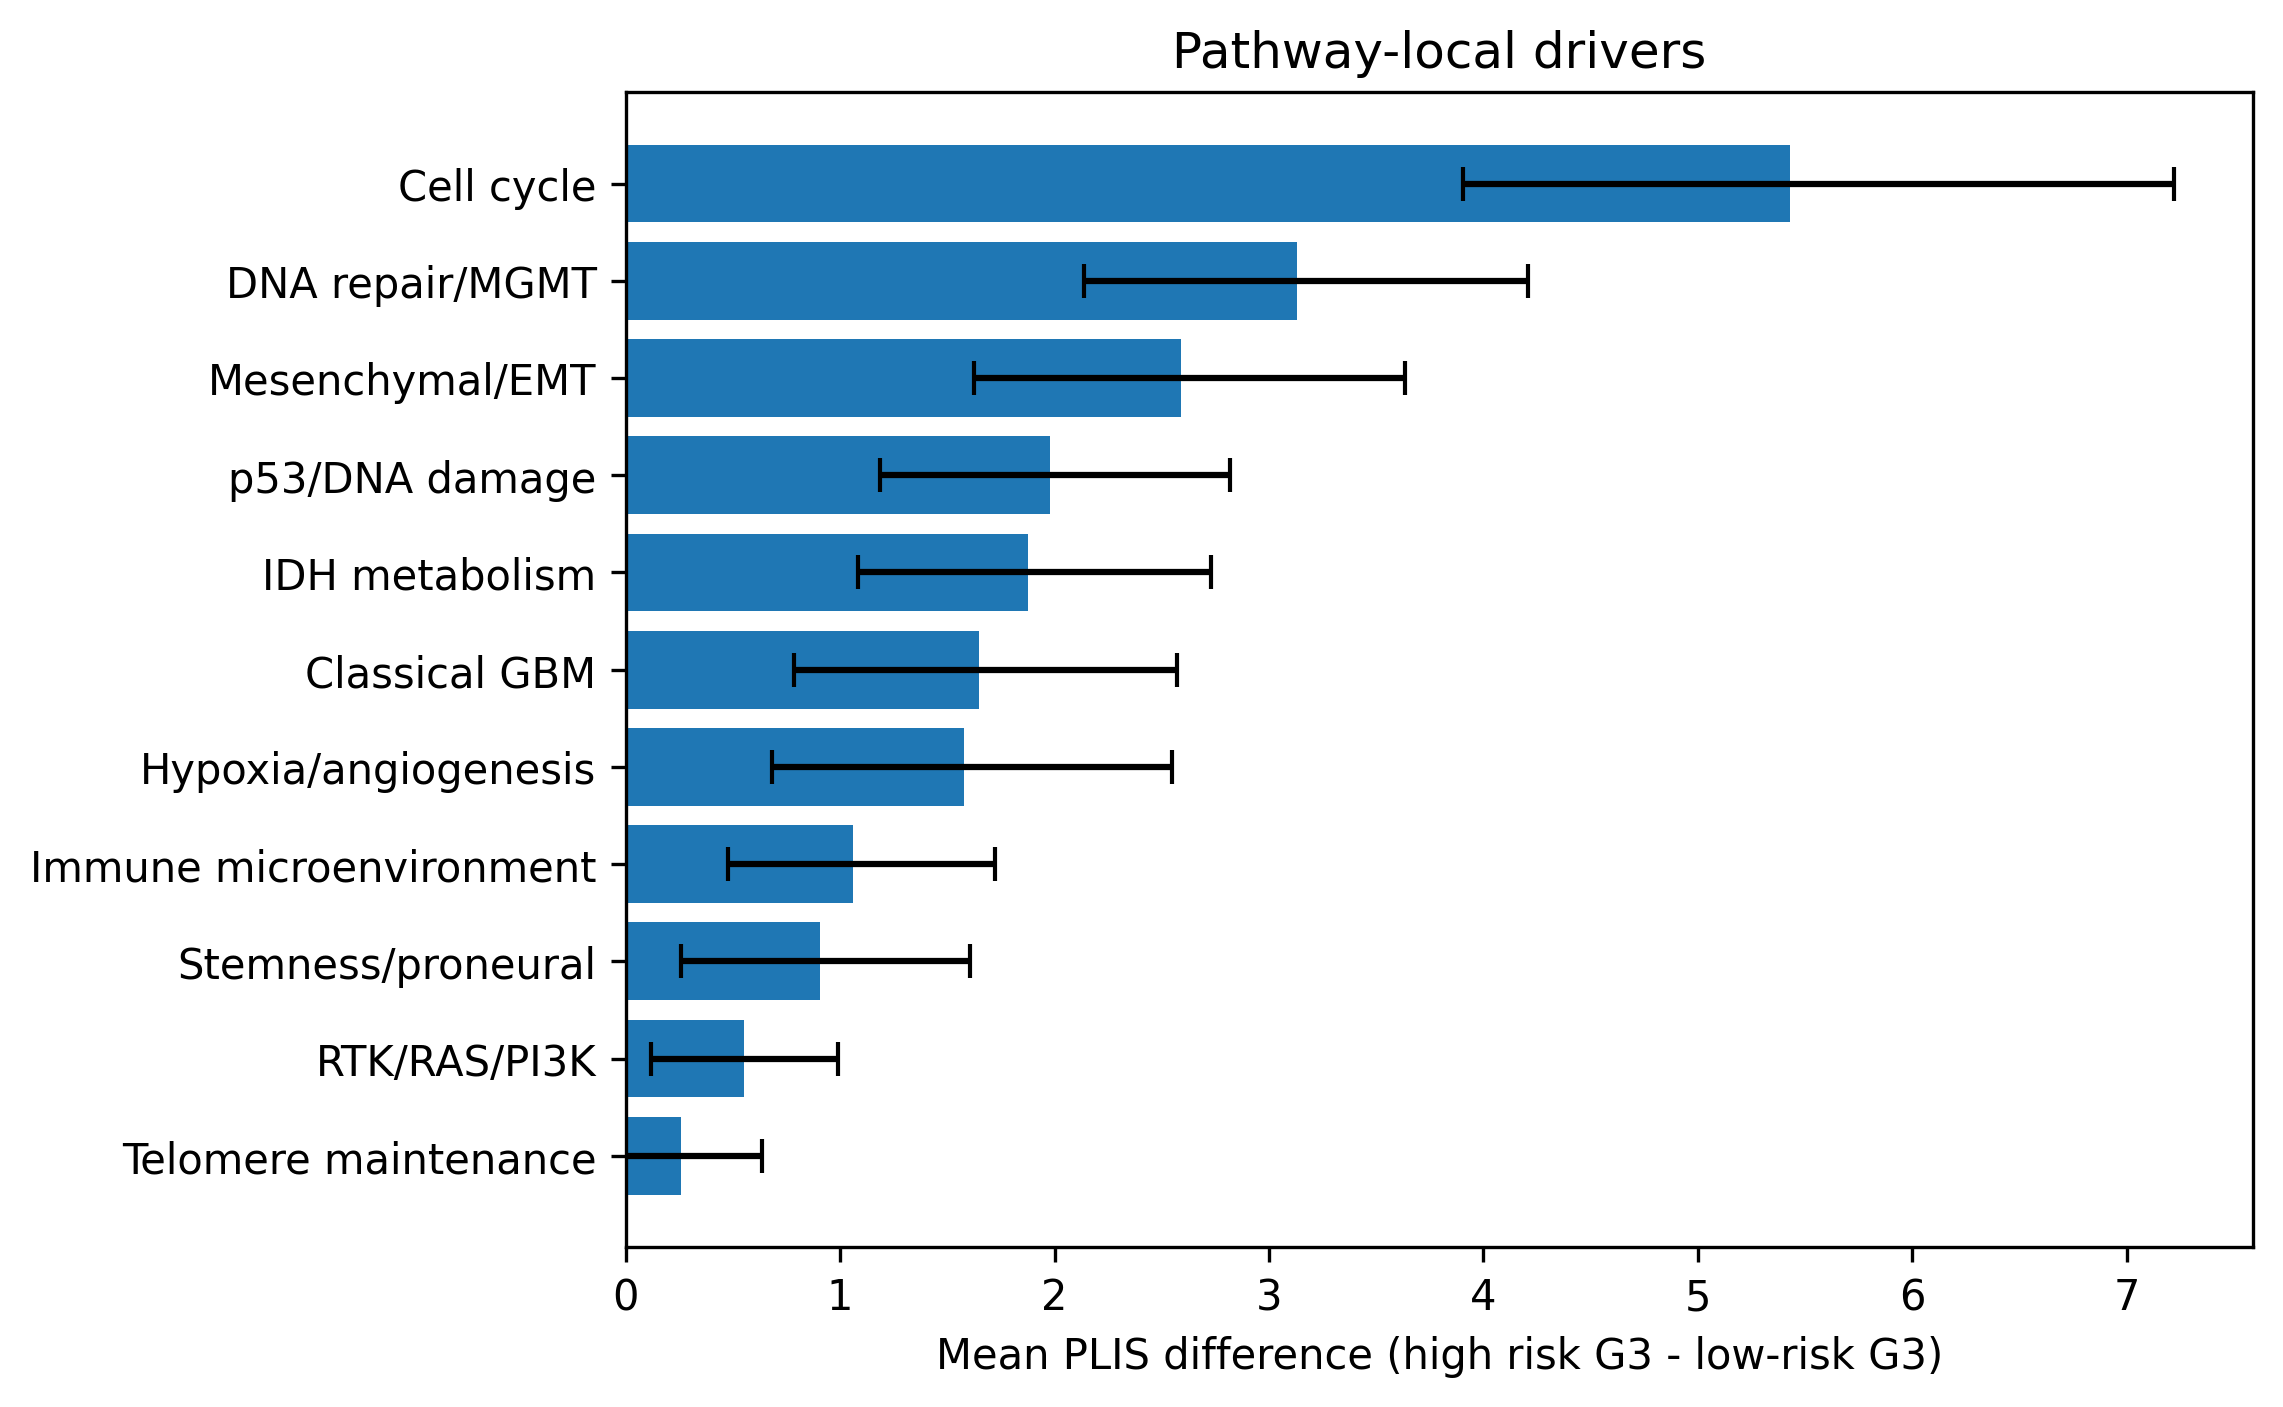
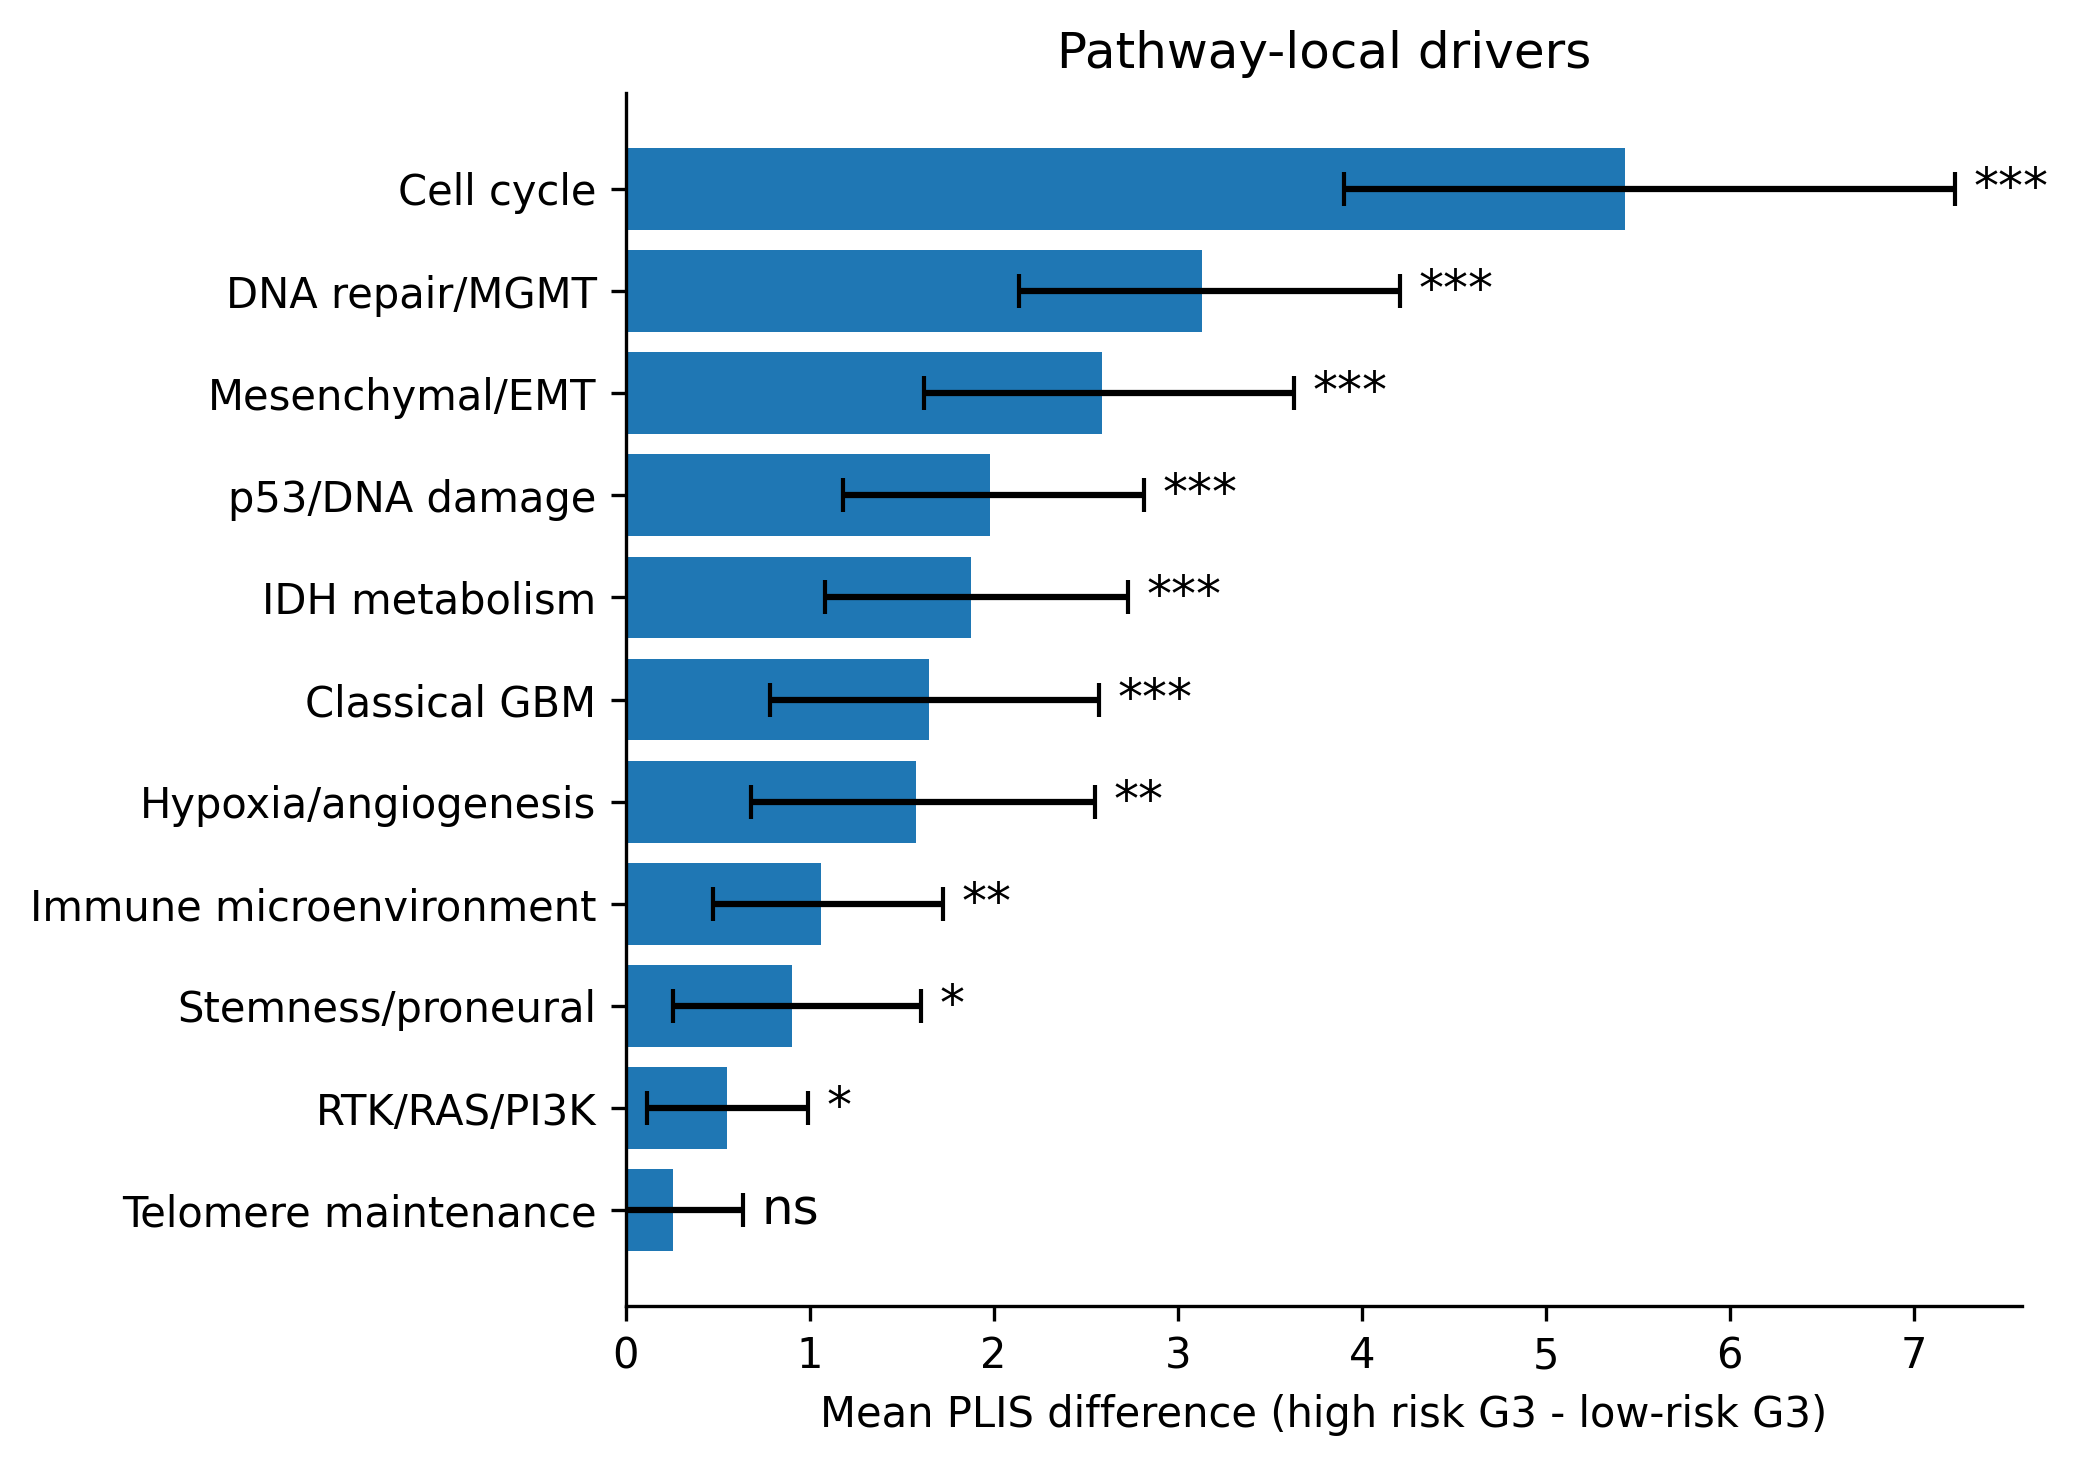
fixed fig4

diff --git a/scripts/fig4.py b/scripts/fig4.py
@@ -11,6 +11,16 @@ df = df.sort_values("delta_plis", ascending=True)
 
 pathways = df["pathway"]
 delta_plis = df["delta_plis"]
+q_values = df["q_value"]
+
+def asterisk(q):
+    if q<0.001:
+        return '***'
+    if q<0.01:
+        return '**'
+    if q<0.05:
+        return '*'
+    return 'ns'
 
 xerr = np.vstack([df["delta_plis"] - df["ci_low"], df["ci_high"] - df["delta_plis"]])
 
@@ -19,9 +29,13 @@ fig, ax = plt.subplots(figsize=(7, 5))
 ax.barh(pathways, delta_plis, xerr=xerr, align="center", capsize=4)
 ax.set_xlim(left=0)
 
+for i in range(len(pathways)):
+    ax.text(df["ci_high"].iloc[i]+0.1, pathways.iloc[i], asterisk(q_values.iloc[i]), va='center', fontsize=12)
+
 ax.set_xlabel("Mean PLIS difference (high risk G3 - low-risk G3)")
 ax.set_title("Pathway-local drivers")
+ax.spines[['top', 'right']].set_visible(False)
 
-plt.savefig('fig4.png', dpi=300, bbox_inches='tight')
 plt.tight_layout()
+plt.savefig('fig4.png', dpi=300, bbox_inches='tight')
 plt.show()